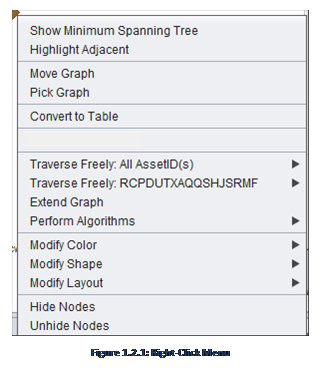
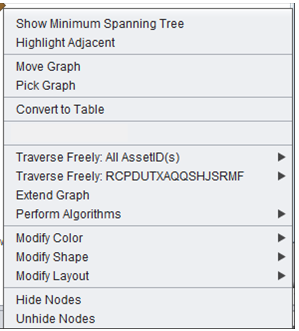
added a section in the style.css called "imgdocs" for the img borders. It's at the bottom of the style.css sheet.  inserted class="imgdocs" to each of images to both dev docs and user docs

Changed region(s): [[0.0, 0.0, 0.9933, 0.997]]

diff --git a/userdocsRevamp.html b/userdocsRevamp.html
@@ -111,8 +111,8 @@
                 <p>The Semoss user interface features the main tab to the left, and a workspace that displays the data outputs in the center of the screen.</p>
                 <h5 id="TabsOverview">1.1 Tabs Overview</h5>
                 <p>There are five default tabs that exist on the setup pane. The main tab appears when the application is started; the others (Graph Labels, Graph Cosmetics, SUDOWL, and Graph Filter) can be toggled.</p>
-                <br><img src="http://semoss.org/userdocs_files/image002.png" alt="Image 002" height="" width=""></br>
-                <br><img src="userdocs_files/image003.png" alt="Image 003" height="" width=""></br>
+                <img src="img/userDocs/image002.png" class="imgdocs" />
+                <img src="img/userDocs/image003.png" class="imgdocs" />
                 <br>
                 <h5 id="MainTab">Main Tab</h5></b></em></p>
                 <p>The main tab is on the left once the application is started. It provides the core functionality of Semoss. The components of the main tab include:</p>
@@ -136,7 +136,7 @@
                 <em><h5>Create Button (5)</h5></em>
                 <p>This button executes the constructed SPARQL query and displays the result either as a graph or as a grid.</p>
                 <br>
-                <img src="img/userDocs/image005.jpg"></br>
+                <img src="img/userDocs/image005.jpg" class="imgdocs" />
                 </br>
                 <em><h5>Undo/Remove (6)</h5></em>
                 <p>The undo button undoes the last action the user has taken. The first time the button is pressed, it removes relevant properties. The second time it is pressed, it removes nodes from the graph.</p>
@@ -162,7 +162,7 @@
                 <p>When the "create" button is toggled and a graph is created, a window within the display pane appears showing either a graph or a grid sheet. These sheets are where the insights are generated for future analysis.</p> 
                 <h5 id="GraphPlaySheetFunctionality">Graph Play Sheet Functionality</h5>
                 <p>The graph play sheet has a number of ways to manipulate a graph after it is created, most of which are accessible from the right click menu.  It is important to note that the right click functionality is highly dependent on whether or not a node or a group of nodes is selected as well as which node(s) is selected.  </p>
-                <img src="img/userDocs/image007.png"></br>
+                <img src="img/userDocs/image007.png" class="imgdocs" />
                 <h5>Show Minimum Spanning Tree</h5>
                 <p>This feature essentially determines the minimum amount of edges necessary to connect all of the vertices of the graph.  This functionality is useful in identification of redundancies within the network.</p>
                 <h5>Highlight Adjacent</h5>
@@ -205,7 +205,7 @@
                 <h3 id="NewDatabaseEngine">2: Creating a New Database Engine</h3>
                 <p>This is the set of steps that must be completed in order to create a new database engine and to load new data to the engine from Excel. Note that some of these steps may be done simultaneously, but all of the steps must be completed to create a fully functional engine.</p>
                 <p>There are other ways to create an engine and connect it to a data store, but this is the easiest way, assuming that the data is not already structured and formatted.</p>
-                <img src="img/userDocs/graph.jpg">
+                <img src="img/userDocs/graph.jpg" class="imgdocs" />
                 <ul><p>1. Identify and understand the data and the relationships within the data.</p>
                 <p>2. Develop the metamodel</p>
                 <p>3. Load the metamodel objects and their relationships into Semoss' properties sheet</p>
@@ -219,7 +219,7 @@
                 <p>Usually, the metamodel is displayed as a map, as shown below for our security database in Figure 2.1.1.</p>
                 <p>Development of the metamodel is one of the most important and complex tasks that needs to be completed in order to be able to efficiently and effectively extract data from the engine. If the metamodel is not thorough, straightforward, and comprehensive, it will be very difficult to extract insights from any set of data. The most important paradigm to consider is that the metamodel should be constructed based on the fundamental relationships between the data, as opposed to a structure that is based on answering specific, known, questions from the data.</p>
                 <p>This allows the database to be queried based on prospective insights (as opposed to modifying the database to allow for this to happen).</p>
-                <p>Figure 2.1.1 below contains the base metamodel for our sample security database. The metamodel is constructed such that each of the node types and its relationships with other node types is represented by boxes and lines.</p><img src="img/userDocs/image014.png">
+                <p>Figure 2.1.1 below contains the base metamodel for our sample security database. The metamodel is constructed such that each of the node types and its relationships with other node types is represented by boxes and lines.</p><img src="img/userDocs/image014.png" class="imgdocs" />
                 <h5 id="LoadMetaModel">2.2 Load the Metamodel relationships into the Map Sheet</h5>
                 <em><p>Note: This section only applies if loading from an Excel loading sheet.</p></em>
                 <p>Once the metamodel is created, the base objects and relationships must be loaded into the RDF map sheet, named in the initial open-source release RDF_Map.prop.  This step ensures that the data loads successfully and correctly aligns with the previously designed metamodel.</p>
@@ -283,15 +283,15 @@
                 <p>The <b>Loader</b> tab essentially contains the name of the sheets that are read into the database. The name of the tab must be "Loader", and adjacent in column B to each of the tabs that are loaded should be the text "Usual."</p>
                 <p>Cell A1 should contain the text "SheetName" and Cell B1 must contain the text "Type."</p>
                 <p>The tab should be constructed as follows (example for the security database):</p>
-                <img src="img/userDocs/image015.png">
+                <img src="img/userDocs/image015.png" class="imgdocs" />
                 <h5><em>Relation Tabs: Loading Triples</em></h5>
                 <p>The other tabs should individually contain specific information surrounding an individual triple store that is to be loaded into the database. For example, <UserName><AssignedTo><AssetID>. Cell A1 should contain the text "Relation", Cell A2 should contain the predicate (AssignedTo in this case), Cell B1 should contain the first node type (e.g. UserName), and cell C1 should contain the second node type (e.g. AssetID).</p>
                 <p>Column B should contain the actual first node instances, and column C should contain the second node instances. Properties on the edges (e.g. not triples, but data that may be relevant as a property such as a cost) can be attached in adjacent columns. Note that the property is not added to the node, but rather, the edge. To add properties to nodes a separate type of sheet is required (as documented below). Properties do not need to be added in the prop sheet, but are more difficult to visualize and query (example shown in figure 2.3.2 for the security database).</p>
-                <img src="img/userDocs/image016.png">
+                <img src="img/userDocs/image016.png" class="imgdocs" />
                 <br></br>
                 <h5><em>Node Property Tabs: Loading Properties</em></h5>
                 <p>In the case where a property is desired to be added onto a node as opposed to a node edge (as above), a separate tab is necessary to be created to show this information. The structure of the sheet is displayed below for the Site property sheet for the security database, where city and state are denoted as properties of an individual site name.</p>
-                <img src="img/userDocs/image017.png">    
+                <img src="img/userDocs/image017.png" class="imgdocs" />    
                 <h5 id="BuildingDatabase">2.4 Building the database</h5>
                 <p>Once the excel files are generated, the database needs to be created.</p>
                 <p>There are two options to create a database: using the user interface import functionality or using the POIReader java file (POIReader is explained in the developer guide). The user interface is somewhat more intuitive, and does not require manual modification of the java code. However, it is not as efficient in processing multiple workbooks or debugging potential loading sheet data issues.</p>
@@ -328,7 +328,7 @@
                 SQ4 What IP addresses have touched this site?
                 SQ5 What employees are located at this site?
                 SQ6 What sites has this IP Address touched?</pre>
-                <img src="img/userDocs/image018.png" alt="insert image018" height="" width="">
+                <img src="img/userDocs/image018.png" class="imgdocs" />
                 <p>Finally, the text of the individual queries is denoted. A stock query requires two components, first the specification of the layout (e.g. graph or grid play sheet) and then the actual query text.</p>
                 <p>Consider the SQ1 Query (What Workstations have accessed this IP Address?).</p>
                 <pre>SQ1_LAYOUT  prerna.ui.components.GraphPlaySheet</p>
@@ -346,7 +346,7 @@
                 <p>There are multiple types of queries available to SPARQL, however only the SELECT (which results in grids) and CONSTRUCT (which results in graphs) queries are used.</p>
                 <p>A query has three major parts: The Query Type (SELECT or CONSTRUCT), the return variables (what is to be returned from the query), and the pattern that the triples must follow, in other words as structured:</p>
                 <br></br>
-                <img src="img/userDocs/image020.jpg">
+                <img src="img/userDocs/image020.jpg" class="imgdocs" />
                 <br></br>
                 <p>To query the database it is important to note the URI (Uniform Resource Index) of the particular types(s) that are to be queried. The query below is a simple query for the Security database, which traverses from the Asset ID to IP Address, based on a specified IP Address. This query would be used to identify what assets (computers) have visited a particular website, in identification of the cause of a particular virus. Additionally, the user can then extend from that particular object (traverse freely) through to other nodes to identify additional insights. This is performed by right clicking on the node in question and traversing to the desired additional node.</p>
                 <p>Here, a <b>CONSTRUCT</b> query is used because a graph is generated. Second, since only one relationship is traversed, from AccessID to IP Address, the result set is:</p>
@@ -369,24 +369,24 @@
                 <h5 id="Concept">4.1 Concept</h5>
                 <p>Like most enterprises this data is located in disparate, disconnected data sets. Likely, there is a PeopleSoft Oracle solution which manages HR information for the company, an active-directory based asset database that contains all of the assets connected to the enterprise, and a web traffic log provided by the network support team. These databases are likely disconnected, and on-face, do not communicate with each other.</p>
                 <p>In order to identify information about the security breach, however, these databases will need to communicate to connect information surrounding the attack.</p>
-                <img src="img/userDocs/image022.png">
+                <img src="img/userDocs/image022.png" class="imgdocs" />
                 <br></br>
                 <p>The SEMOSS team has extracted specific, relevant components from these databases and generated a metamodel (more information surrounding metamodels can be found in section 2.1).  However, this data is unfiltered and it must be processed and connected in SEMOSS for actionable insights to be generated. The Security metamodel is located in figure 4.1.2 below.</p>
                 <p>Essentially, the three disparate databases are connected through the metamodel and can be combined to generate insights surrounding the attack that occurred.</p>
-                <img src="img/userDocs/image024.png">
+                <img src="img/userDocs/image024.png" class="imgdocs" />
                 <h5 id="Generating">4.2  Generating Insights</h5>
                 <p>Traversing through the database is relatively straightforward. Let's imagine that the IP Address is known (for our demo we have used IAmAVirus.Com), and we want to identify insights surrounding what employees have accessed this host.</p>
                 <p>First select the (1) WebLog database (since the initial connection surrounds web traffic), then select the (2) Security Perspective, and then select a (3) Specific Question. In this case, the analyst is interested in identifying what workstations (assets) have accessed the particular IP Address.</p>
-                <img src="img/userDocs/image026.jpg">
+                <img src="img/userDocs/image026.jpg" class="imgdocs" />
                 <p>Once the query is created, the available parameters are selected, in this case the IP Address, and then the create button is pressed to generate the initial graph (figure 4.2.2 below).</p>
-                <img src="img/userDocs/image028.jpg">
+                <img src="img/userDocs/image028.jpg" class="imgdocs" />
                 <p>Now, all of the workstation assets that have accessed that particular IP address have been identified. Next, the analyst might be interested in the usernames associated with those particular asset identifiers. By first selecting the database to traverse to (e.g. the Asset Database) and then by right clicking on the individual node in question, the user can traverse to another node. In this case, the analyst will traverse through to username (figure 4.2.4 below).</p><p>Now, the graph shows the usernames associated with the assets that have been compromised.</p>
-                <img src="img/userDocs/image030.jpg">
-                <img src="img/userDocs/image031.png">
+                <img src="img/userDocs/image030.jpg" class="imgdocs" />
+                <img src="img/userDocs/image031.png" class="imgdocs" />
                 <p>Next, the user may be interested in identifying the names of the employees involved, so by switching to the PeopleSoft database perspective the analyst can traverse through to this question. Next, the user may be interested in where these individuals are located (perhaps the security breach has occurred at a specific location), so the user can traverse through to these locations to identify the specific area where the breach has occurred (as in figure 4.2.5 below).</p>
-                <img src="img/userDocs/image034.jpg">
+                <img src="img/userDocs/image034.jpg" class="imgdocs" />
                 <p>Finally, the analyst may be interested in what servers those assets have accessed, so by switching back to the traffic log, the user can traverse through to server. In addition, highlight adjacent functionality can be used to identify the specific nodes that a particular instance touches; in this case, it appears as if a particular asset has touched an extraordinary amount of servers; possibly suggesting that that particular asset has infected the entire enterprise (as below).</p>
-                <img src="img/userDocs/image035.png">
+                <img src="img/userDocs/image035.png" class="imgdocs" />
                 <p>Through this analysis, we have identified that this particular user has likely gone to a malicious website, identified the party respinsible, as well as all of the servers this particular user has touched to identify what actions need to be taken to reduce the impact to the enterprise. In addition, this analysis has been performed by merging three separate, disparate databases that ordinarily would not communicate with each other.</p>
                 <h3 id="Additional">Additional Sources</h3>
                 <p>Additional Information surrounding SEMOSS is located here:</p>

diff --git a/devdocsRevamp.html b/devdocsRevamp.html
@@ -312,18 +312,18 @@
         <p>GridPlaySheet.java is the component class that generates a table as the means of visualizing the data. This play sheet currently requires a SELECT SPARQL query to process the data correctly.</p>
         <p>The table can be sorted by clicking on a column header and the data can easily be copied and pasted into Excel.  More information on this play sheet's functionality can be found in the Semoss User Guide.</p>
         <p>The following is a print screen of what the results look like in a GridPlaySheet.</p>
-        <img src="img/devDocs/image011.png">
+        <img src="img/devDocs/image011.png" class="imgdocs" />
         <h5 id="GridRAWPlaySheet">5.3.2 GridRAWPlaySheet</h5>
         <p>GridRAWPlaySheet.java is similar to GridPlaySheet in that they both generate tables as data visualization.</p>
         <p>The main distinction is in the processing of the data&#8212;GridRAWPlaySheet stores and displays full URI's whereas GridPlaySheet only deals with the instance level of each RDF component.</p>
         <p>Like GridPlaySheet, this play sheet requires a SPARQL SELECT query to correctly process the data.</p>
         <p>The following is a print screen of what the results look like in a GridPlaySheet.</p>
-        <img src="img/devDocs/image012.png">
+        <img src="img/devDocs/image012.png" class="imgdocs" />
         <h5 id="GraphPlaySheet">5.3.3 GraphPlaySheet</h5>
         <p>GraphPlaySheet.java is the play sheet class that generates a graph network for its data visualization.</p>
         <p>This play sheet processes the data very differently than the grid play sheets because it must get the data into a format that is recognized by the graphing component, Jung. This play sheet generally uses a CONSTRUCT SPARQL query. GraphPlaySheet has a lot of peripheral functionality as well that is accessible through the right click menu. Please reference the Semoss User Guide for further information on these functionalities.</p>
         <p>The following is a print screen of what the results look like in a GraphPlaySheet:</p>
-        <img src="img/devDocs/image014.jpg">
+        <img src="img/devDocs/image014.jpg" class="imgdocs" />
         <h3 id="section6">6: Understanding Ontology</h3></a>
         <p>The value of insights derived from Semoss is directly correlated to properness of the semantic ontologies that has been developed for the structure of the data. Ontologies are the structural frameworks for organizing the pieces of information in a database.</p>
         <p>A proper domain-specific metamodel can be an ontology. Creating metamodels involve the construction of concepts (data) and their relationships (how data pieces relate to each other).</p>
@@ -332,7 +332,7 @@
         <p>If the metamodel is not thorough, straightforward, and comprehensive, it will be very difficult to extract insights from any set of data. The most important paradigm to consider is that the metamodel should be constructed based on the fundamental relationships between the data, as opposed to a structure that is based on answering specific, known, questions from the data.</p>
         <p>This allows the database to be queried based on prospective insights (as opposed to modifying the database to allow for this to happen).</p>
         <p>Figure 2.1.1 below contains the base metamodel for our sample security metamodel. The metamodel is constructed such that each of the node types and its relationships with other node types is represented by boxes and lines.</p>
-        <img src="img/devDocs/image016.png">
+        <img src="img/devDocs/image016.png" class="imgdocs" />
         <hr>
             <br></br>
             <p>Licensed under <a href="http://www.apache.org/licenses/LICENSE-2.0">Apache License v2.0</a></p>

diff --git a/css/style.css b/css/style.css
@@ -336,3 +336,16 @@ body.docs {
       border-bottom: 1px solid #ddd;
       line-height: 2;
 }
+
+/*-------------User Docs Images------------*/
+
+.imgdocs{
+      border-style:solid; 
+      border-width:2px;
+      border-color:#cccccc;
+      margin-bottom: 2px;
+      margin-top: 2px;
+      margin-left:2px;
+      margin-right:2px;
+      padding:5px 5px 5px 5px;
+}
